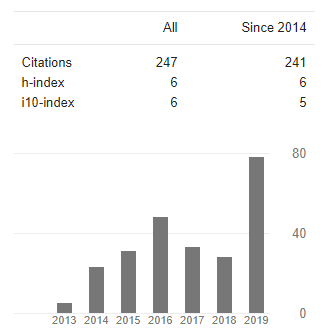
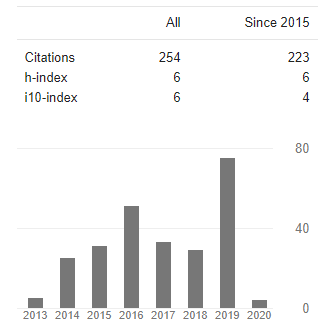
Updated Citations

diff --git a/research.html b/research.html
@@ -23,7 +23,7 @@
 		</strong>
     </blockquote> 
 	<br/>
-    My Google Scholar Snapshot <b>(December 2019)</b>
+    My Google Scholar Snapshot <b>(January 2020)</b>
 	<br/>
 	<br/>
 	<img src="images/scholarstat.png" width="305" height="295" >
